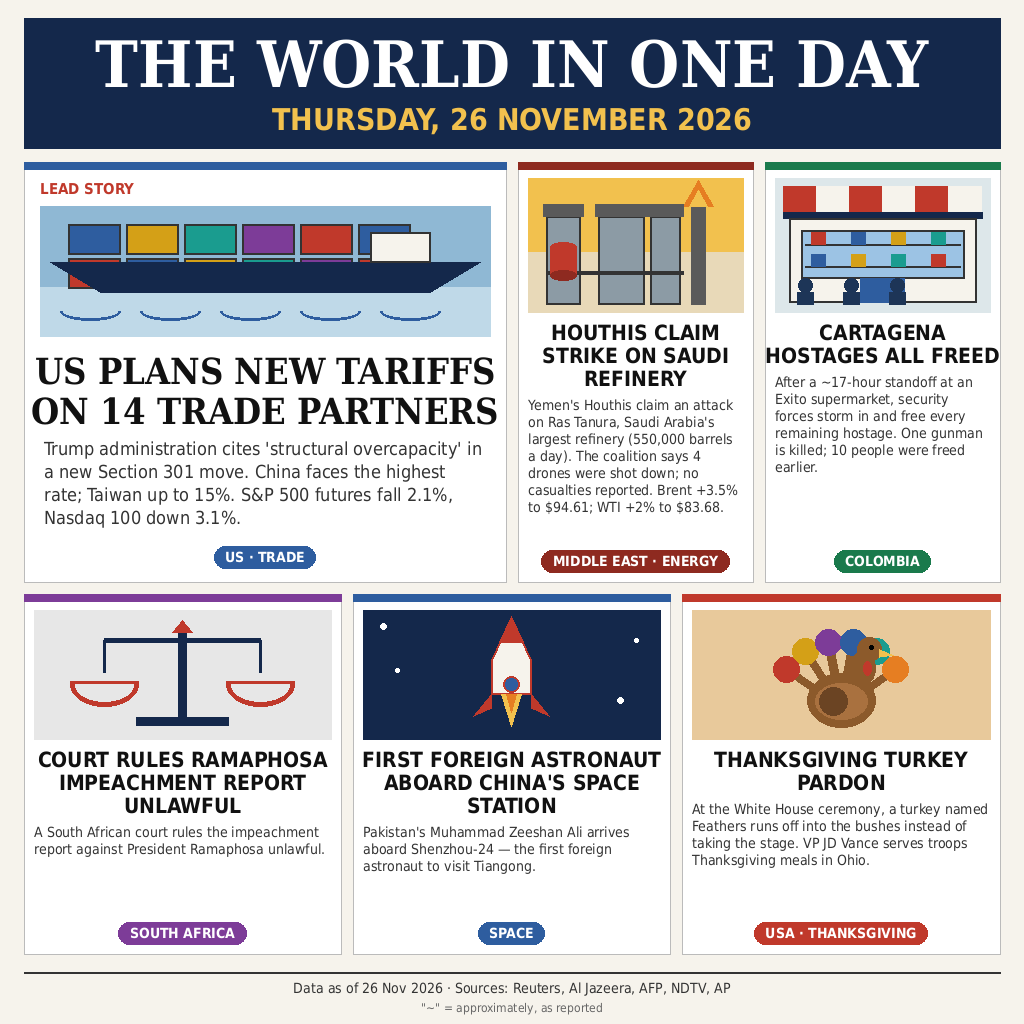
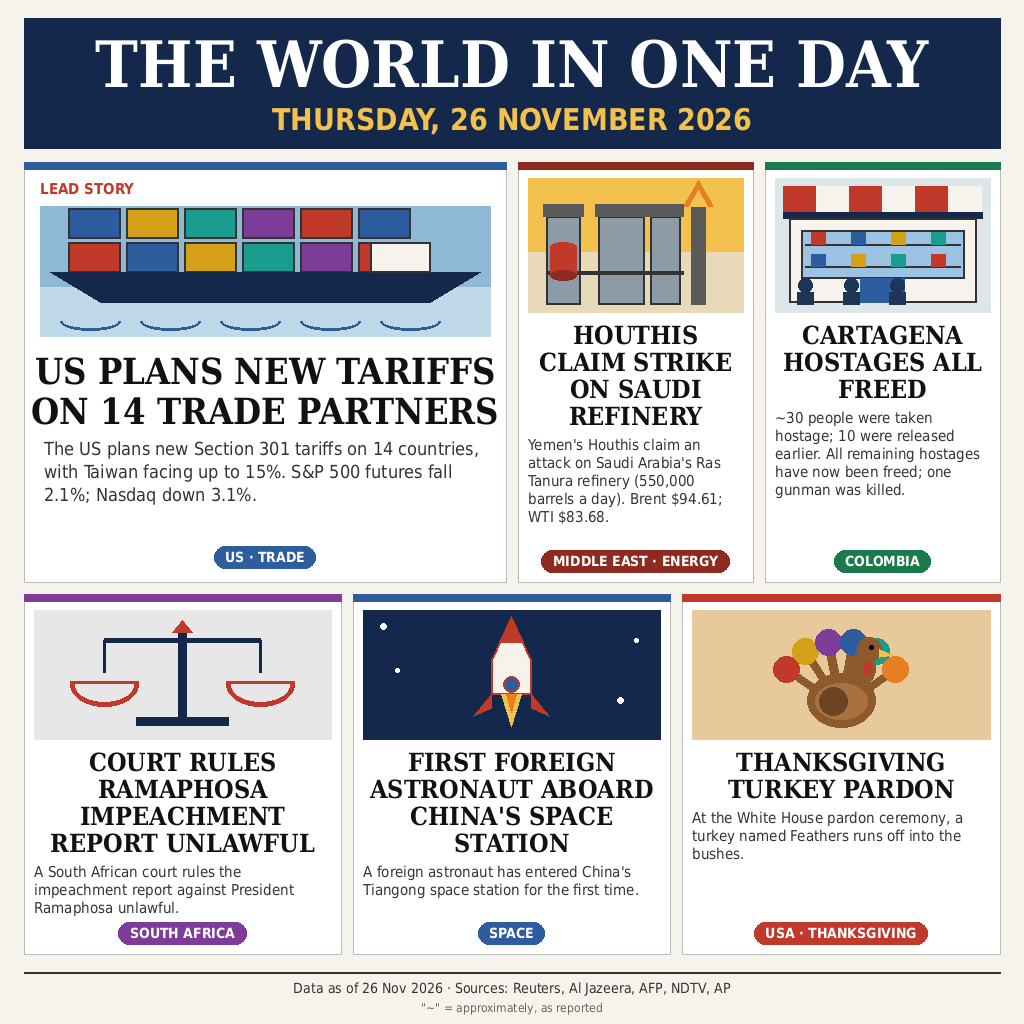
v2: apply Quick Smart review fixes — corrected 5 story bodies, Cartagena title padding, ship illustration, larger serif subtitles

diff --git a/render.py b/render.py
@@ -86,11 +86,11 @@ def ic_ship(x, y, w, h):
     # stacked containers
     cols = ['#C0392B', '#2E5D9F', '#D4A017', '#1A9C8F', '#7D3C98']
     cw_, ch_ = 52, 30
-    base = y + h - 78
+    base = y + h - 68
     for row in range(2):
         for i in range(6):
             cx = x + 28 + i * (cw_ + 6)
-            cy = base - row * (ch_ + 4)
+            cy = base - 26 - row * (ch_ + 4)
             d.rectangle([cx, cy, cx + cw_, cy + ch_], fill=cols[(i + row) % 5],
                         outline='#333333', width=2)
     # hull
@@ -252,44 +252,41 @@ ic_ship(lx + 16, top + 44, lw - 32, 130)
 yy = ctext(lx, top + 188, lw, 'US PLANS NEW TARIFFS\nON 14 TRADE PARTNERS',
            F(SB, 36), '#111111', 4)
 yy = ltext(lx + 20, yy + 8, lw - 40,
-           "Trump administration cites 'structural overcapacity' in a new "
-           "Section 301 move. China faces the highest rate; Taiwan up to 15%. "
-           "S&P 500 futures fall 2.1%, Nasdaq 100 down 3.1%.",
+           "The US plans new Section 301 tariffs on 14 countries, with "
+           "Taiwan facing up to 15%. S&P 500 futures fall 2.1%; Nasdaq "
+           "down 3.1%.",
            F(R, 18), '#333333', 5)
 tag(lx, top + r1h - 36, lw, 'US · TRADE', '#2E5D9F')
 
 
-def small_card(x, col, tg, hd, sub, icon, hsz=21):
+def small_card(x, col, tg, hd, sub, icon, hsz=25):
     card(x, top, cw, r1h, col)
     ih = int(r1h * 0.32)
     icon(x + 10, top + 16, cw - 20, ih)
-    yy = wtext(x, top + 24 + ih, cw, hd, F(B, hsz), '#111111', 2)
-    ltext(x + 10, yy + 8, cw - 20, sub, F(R, 14), '#333333', 3)
+    yy = wtext(x + 12, top + 24 + ih, cw - 24, hd, F(SB, hsz), '#111111', 2)
+    ltext(x + 10, yy + 8, cw - 20, sub, F(R, 15), '#333333', 3)
     tag(x, top + r1h - 32, cw, tg, col)
 
 
 small_card(M + (2) * (cw + G), '#8E2A20', 'MIDDLE EAST · ENERGY',
            'HOUTHIS CLAIM STRIKE ON SAUDI REFINERY',
-           "Yemen's Houthis claim an attack on Ras Tanura, Saudi Arabia's "
-           "largest refinery (550,000 barrels a day). The coalition says 4 "
-           "drones were shot down; no casualties reported. Brent +3.5% "
-           "to $94.61; WTI +2% to $83.68.",
+           "Yemen's Houthis claim an attack on Saudi Arabia's Ras Tanura "
+           "refinery (550,000 barrels a day). Brent $94.61; WTI $83.68.",
            ic_refinery)
 
 small_card(M + (3) * (cw + G), '#1A7A4C', 'COLOMBIA',
            'CARTAGENA HOSTAGES ALL FREED',
-           "After a ~17-hour standoff at an Exito supermarket, security "
-           "forces storm in and free every remaining hostage. One gunman is "
-           "killed; 10 people were freed earlier.",
+           "~30 people were taken hostage; 10 were released earlier. All "
+           "remaining hostages have now been freed; one gunman was killed.",
            ic_market)
 
 
-def row2_card(x, w, col, tg, hd, sub, icon, hsz=21):
+def row2_card(x, w, col, tg, hd, sub, icon, hsz=25):
     card(x, top2, w, r2h, col)
     ih = int(r2h * 0.36)
     icon(x + 10, top2 + 16, w - 20, ih)
-    yy = wtext(x, top2 + 24 + ih, w, hd, F(B, hsz), '#111111', 2)
-    ltext(x + 10, yy + 8, w - 20, sub, F(R, 14), '#333333', 3)
+    yy = wtext(x + 12, top2 + 24 + ih, w - 24, hd, F(SB, hsz), '#111111', 2)
+    ltext(x + 10, yy + 8, w - 20, sub, F(R, 15), '#333333', 3)
     tag(x, top2 + r2h - 32, w, tg, col)
 
 
@@ -301,15 +298,14 @@ row2_card(M, cw3, '#7D3C98', 'SOUTH AFRICA',
 
 row2_card(M + cw3 + G, cw3, '#2E5D9F', 'SPACE',
           "FIRST FOREIGN ASTRONAUT ABOARD CHINA'S SPACE STATION",
-          "Pakistan's Muhammad Zeeshan Ali arrives aboard Shenzhou-24 — the "
-          "first foreign astronaut to visit Tiangong.",
+          "A foreign astronaut has entered China's Tiangong space station "
+          "for the first time.",
           ic_rocket)
 
 row2_card(M + 2 * (cw3 + G), cw3 + 1, '#C0392B', 'USA · THANKSGIVING',
           'THANKSGIVING TURKEY PARDON',
-          "At the White House ceremony, a turkey named Feathers runs off "
-          "into the bushes instead of taking the stage. VP JD Vance serves "
-          "troops Thanksgiving meals in Ohio.",
+          "At the White House pardon ceremony, a turkey named Feathers runs "
+          "off into the bushes.",
           ic_turkey)
 
 # ---------- footer ----------
